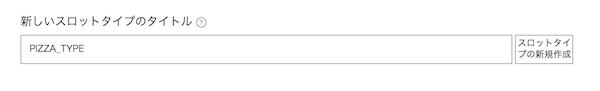
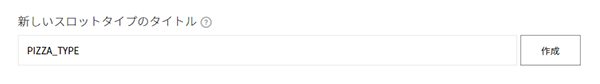
Update image files
Replace image files for Register_Interaction_Model.md

Changed region(s): [[0.03, 0.381, 0.99, 0.7857], [0.03, 0.1667, 0.36, 0.3333]]

diff --git a/ja/DevConsole/Guides/CEK/Register_Interaction_Model.md b/ja/DevConsole/Guides/CEK/Register_Interaction_Model.md
@@ -2,11 +2,11 @@
 
 CEKがExtensionにユーザーのリクエストを送る際、ユーザーの発話をどう解析し、どんな形式で送るかを決めるために、[あらかじめ対話モデルを定義](/Design/Design_Guideline_For_Extension.md#DefineInteractionModel)する必要があります。対話モデルは、[Custom Extension](/CEK/Guides/Build_Custom_Extension.md)に渡されるリクエストを標準化したスキーマです。
 
-対話モデルを登録するには、先にClova Developer Centerで[Extensionを登録](/DevConsole/Guides/CEK/Register_Extension.md)しておく必要があります。CEKのメニュー画面で、対話モデルを追加したいExtensionに対して**{{ book.DevConsole.cek_edit }}**ボタンをクリックします。
+対話モデルを登録するには、先にClova Developer Centerで[Extensionを登録](/DevConsole/Guides/CEK/Register_Extension.md)しておく必要があります。CEKのメニュー画面で、対話モデルを追加したいExtensionに対して**{{ book.DevConsole.cek_edit }}** ボタンをクリックします。
 
 ![](/DevConsole/Resources/Images/DevConsole-Interaction_Model_Menu.png)
 
-以下のような**{{ book.DevConsole.cek_interaction_model }}：{{ book.DevConsole.cek_builder_header_title_dashboard }}**画面が表示されます。
+以下のような**{{ book.DevConsole.cek_interaction_model }}：{{ book.DevConsole.cek_builder_header_title_dashboard }}** 画面が表示されます。
 
 ![](/DevConsole/Resources/Images/DevConsole-Interaction_Model_Dashboard.png)
 
@@ -27,13 +27,12 @@ Extensionを設計するための[対話モデル](/Design/Design_Guideline_For_
 サービスを提供するExtensionがどの[ビルトインスロットタイプ](/Design/Design_Guideline_For_Extension.md#Slot)を使用するか決めたら、そのExtensionの対話モデルにビルトインスロットタイプを追加する必要があります。例えば、ピザの宅配Extensionを作成する場合、ユーザーの発話に、ピザの数量に関する情報の表現が含まれることが予想されます。従って、この場合は数量に関するビルトインスロットタイプを使用する必要があり、次の手順でExtensionに追加します。
 
 <ol>
-  <li><strong>{{ book.DevConsole.cek_builder_list_title_slottype }}</strong>パネルの右上、または左側のサイドメニューの<strong>{{ book.DevConsole.cek_builder_list_title_slottype }}</strong>メニューの右上にある<img class="inlineImage" src="/DevConsole/Resources/Images/DevConsole-Plus_Button.png" />ボタンをクリックします。ボタンをクリックすると、<strong>{{ book.DevConsole.cek_interaction_model }}：{{ book.DevConsole.cek_builder_header_title_slottype }}</strong>画面が表示されます。</li>
-  <li><strong>{{ book.DevConsole.cek_builder_new_slottype_title }}</strong>項目で必要なビルトインスロットタイプのチェックボックスをクリックします。</li>
-  <img src="/DevConsole/Resources/Images/DevConsole-Add_Built-in_Slot_Type.png" />
+  <li><strong>{{ book.DevConsole.cek_builder_list_title_slottype }}</strong>パネル、または左側のサイドメニューの<strong>{{ book.DevConsole.cek_builder_list_title_slottype }}</strong>内にある<strong>{{ book.DevConsole.cek_builder_select_slottype_builtin }}</strong>の右に表示された<img class="inlineImage" src="/DevConsole/Resources/Images/DevConsole-Plus_Button.png" />ボタンをクリックします。</li>
   <li>必要なビルトインスロットタイプにチェックを入れ、右上の<strong>{{ book.DevConsole.cek_save }}</strong>ボタンをクリックします。</li>
+  <img src="/DevConsole/Resources/Images/DevConsole-Add_Built-in_Slot_Type.png" />
 </ol>
 
-すると、**{{ book.DevConsole.cek_interaction_model }}：{{ book.DevConsole.cek_builder_header_title_dashboard }}**画面の**{{ book.DevConsole.cek_builder_list_title_slottype }}**パネルに、次のようにビルトインスロットタイプが追加されたことを確認できます。
+すると、**{{ book.DevConsole.cek_interaction_model }}：{{ book.DevConsole.cek_builder_header_title_dashboard }}** 画面の **{{ book.DevConsole.cek_builder_list_title_slottype }}** パネルに、次のようにビルトインスロットタイプが追加されたことを確認できます。
 
 ![](/DevConsole/Resources/Images/DevConsole-Added_Built-in_Slot_Type.png)
 
@@ -52,17 +51,17 @@ Extensionを設計するための[対話モデル](/Design/Design_Guideline_For_
 次の順でカスタムスロットタイプを追加します。
 
 <ol>
-  <li><strong>{{ book.DevConsole.cek_builder_list_title_slottype }}</strong>パネルの右上、または左側のサイドメニューの<strong>{{ book.DevConsole.cek_builder_list_title_slottype }}</strong>メニューの右上にある<img class="inlineImage" src="/DevConsole/Resources/Images/DevConsole-Plus_Button.png" />ボタンをクリックします。ボタンをクリックすると、<strong>{{ book.DevConsole.cek_interaction_model }}：{{ book.DevConsole.cek_builder_header_title_slottype }}</strong>画面が表示されます。</li>
+  <li><strong>{{ book.DevConsole.cek_builder_list_title_slottype }}</strong>パネル、または左側のサイドメニューの<strong>{{ book.DevConsole.cek_builder_list_title_slottype }}</strong>内にある<strong>カスタムスロットタイプ</strong>の右に表示された<img class="inlineImage" src="/DevConsole/Resources/Images/DevConsole-Plus_Button.png" />ボタンをクリックします。</li>
   <li><strong>{{ book.DevConsole.cek_builder_new_slottype_title }}</strong>の入力フィールドに、追加するカスタムスロットタイプの名前を入力し、<strong>{{ book.DevConsole.cek_create }}</strong>ボタンをクリックします。カスタムスロットタイプが生成されると、そのカスタムスロットタイプの詳細を確認できる画面が表示されます。</li>
   <img src="/DevConsole/Resources/Images/DevConsole-Add_Custom_Slot_Type_1.png" />
-  <li><img class="inlineImage" src="/DevConsole/Resources/Images/DevConsole-Plus_Button.png" />ボタンをクリックして、<strong>{{ book.DevConsole.cek_builder_slottype_dictionary_title }}</strong>に代表語を追加します。</li>
+  <li><strong>{{ book.DevConsole.cek_builder_slottype_dictionary_title }}</strong>の入力フィールドに代表語を入力し、<img class="inlineImage" src="/DevConsole/Resources/Images/DevConsole-Plus_Button.png" />ボタンをクリックして代表語を追加します。</li>
   <img src="/DevConsole/Resources/Images/DevConsole-Add_Custom_Slot_Type_2.png" />
   <li>追加した代表語に、同義語や類義語を追加します。</li>
   <img src="/DevConsole/Resources/Images/DevConsole-Add_Custom_Slot_Type_3.png" />
   <li>最後に、右上の<strong>{{ book.DevConsole.cek_save }}</strong>ボタンをクリックします。</li>
 </ol>
 
-右の<strong>ダッシュボード</strong>メニューで**{{ book.DevConsole.cek_interaction_model }}：{{ book.DevConsole.cek_builder_header_title_dashboard }}**に移動すると、カスタムスロットタイプが追加されたことを確認できます。
+右の<strong>ダッシュボード</strong>メニューで**{{ book.DevConsole.cek_interaction_model }}：{{ book.DevConsole.cek_builder_header_title_dashboard }}** に移動すると、カスタムスロットタイプが追加されたことを確認できます。
 
 ![](/DevConsole/Resources/Images/DevConsole-Added_Custom_Slot_Type.png)
 
@@ -76,7 +75,7 @@ Extensionを設計するための[対話モデル](/Design/Design_Guideline_For_
 シュリンプゴールドクラスト　　シュリンプゴールドクラストピザ　　シュリンプゴルクラピザ　　シュリンプゴルクラ
 ```
 
-Clova Developer Centerには、以下のように**アップロード**ボタンと**ダウンロード**ボタンがあります。**アップロード**ボタンをクリックすると、あらかじめTSVファイルで定義したカスタムスロットタイプをアップロードできます。**ダウンロード**ボタンをクリックすると、現在作成中のカスタムスロットタイプをTSV形式でダウンロードできます。
+Clova Developer Centerには、以下のように **アップロード** ボタンと **ダウンロード** ボタンがあります。**アップロード** ボタンをクリックすると、あらかじめTSVファイルで定義したカスタムスロットタイプをアップロードできます。**ダウンロード** ボタンをクリックすると、現在作成中のカスタムスロットタイプをTSV形式でダウンロードできます。
 
 ![](/DevConsole/Resources/Images/DevConsole-Custom_Slot_Upload_and_Download_Button.png)
 
@@ -95,10 +94,10 @@ Clovaプラットフォームでは共通したユーザーリクエストのカ
 Extensionが使用する[ビルトインスロットタイプ](#AddBuiltinSlotType)と[カスタムスロットタイプ](#AddCustomSlotType)を追加したら、次はカスタムインテントを追加します。続けて、ピザを注文するユーザーのリクエストを仮定します。次の順で「OrderPizza」という名前のインテントを追加します。
 
 <ol>
-  <li><strong>{{ book.DevConsole.cek_builder_list_title_intent }}</strong>パネルの右上か、左側のサイドメニューの<strong>{{ book.DevConsole.cek_builder_list_title_intent }}</strong>メニューの右上の<img class="inlineImage" src="/DevConsole/Resources/Images/DevConsole-Plus_Button.png" />ボタンをクリックします。ボタンをクリックすると、<strong>{{ book.DevConsole.cek_interaction_model }}：{{ book.DevConsole.cek_builder_header_title_intent }}</strong>画面が表示されます。</li>
+  <li><strong>{{ book.DevConsole.cek_builder_list_title_intent }}</strong>パネルか、左側のサイドメニューの<strong>{{ book.DevConsole.cek_builder_list_title_intent }}</strong>メニュー内の<strong><カスタムインテント/strong>の右に表示された<img class="inlineImage" src="/DevConsole/Resources/Images/DevConsole-Plus_Button.png" />ボタンをクリックします。</li>
   <li><strong>{{ book.DevConsole.cek_builder_new_intent }}</strong>の入力フィールドに、追加するカスタムインテントの名前を入力し、<strong>{{ book.DevConsole.cek_create }}</strong>ボタンをクリックします。カスタムインテントが生成されると、そのカスタムインテントの詳細を確認する画面が表示されます。</li>
   <img src="/DevConsole/Resources/Images/DevConsole-Add_Custom_Intent_1.png" />
-  <li><strong>{{ book.DevConsole.cek_builder_intent_slot_title }}</strong>の入力フィールドに、追加するslotの名前を入力し、右の<img class="inlineImage" src="/DevConsole/Resources/Images/DevConsole-Plus_Button.png" />ボタンをクリックしてslotを追加します。</li>
+  <li><strong>{{ book.DevConsole.cek_builder_intent_slot_title }}</strong>の入力フィールドに、追加するスロットの名前を入力し、右の<img class="inlineImage" src="/DevConsole/Resources/Images/DevConsole-Plus_Button.png" />ボタンをクリックしてslotを追加します。</li>
   <img src="/DevConsole/Resources/Images/DevConsole-Add_Custom_Intent_2.png" />
   <li>スロットを追加し、そのスロットのタイプを指定します。</li>
   <img src="/DevConsole/Resources/Images/DevConsole-Add_Custom_Intent_3.png" />
@@ -132,7 +131,7 @@ pizzaAmount	CLOVA.NUMBER
 ...
 ```
 
-Clova Developer Centerは、以下のように**アップロード**ボタンと**ダウンロード**ボタンが利用可能です。**アップロード**ボタンをクリックすると、あらかじめTSVファイルで定義したカスタムインテントをアップロードできます。**ダウンロード**ボタンをクリックすると、現在作成しているカスタムインテントをTSV形式でダウンロードできます。
+Clova Developer Centerは、以下のように**アップロード**ボタンと**ダウンロード**ボタンが利用可能です。**アップロード** ボタンをクリックすると、あらかじめTSVファイルで定義したカスタムインテントをアップロードできます。**ダウンロード** ボタンをクリックすると、現在作成しているカスタムインテントをTSV形式でダウンロードできます。
 
 ![](/DevConsole/Resources/Images/DevConsole-Utterance_Example_Upload_and_Download_Button.png)
 
